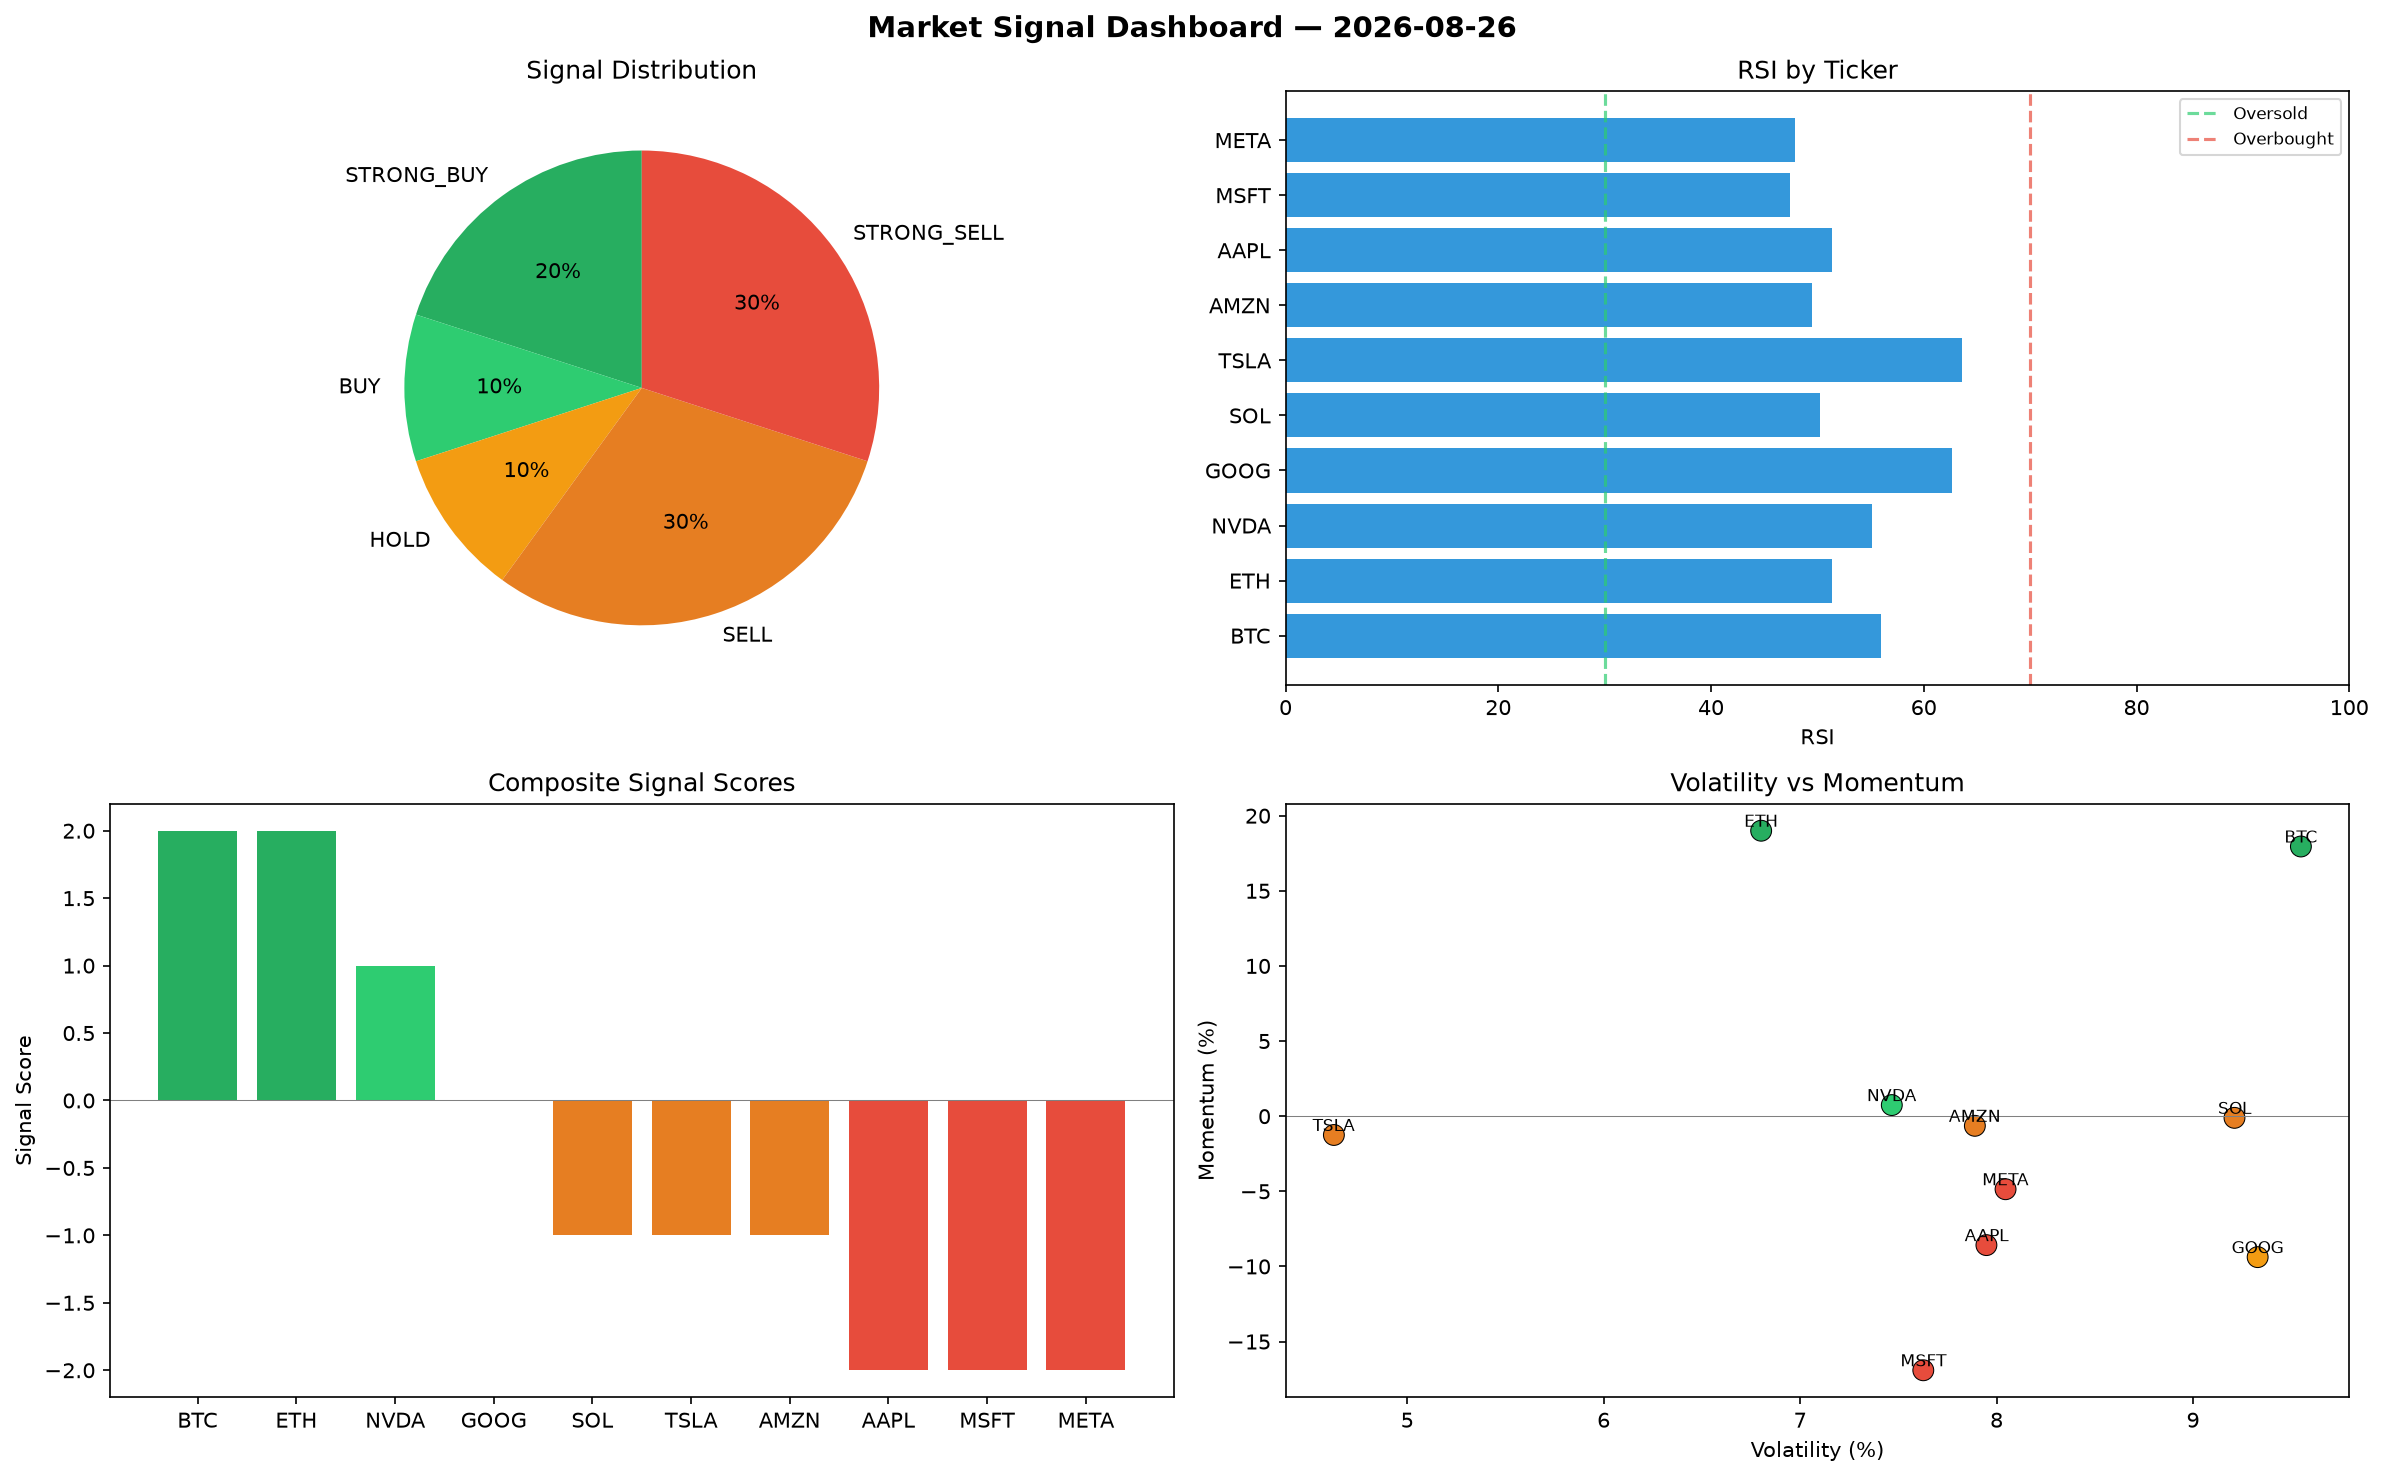
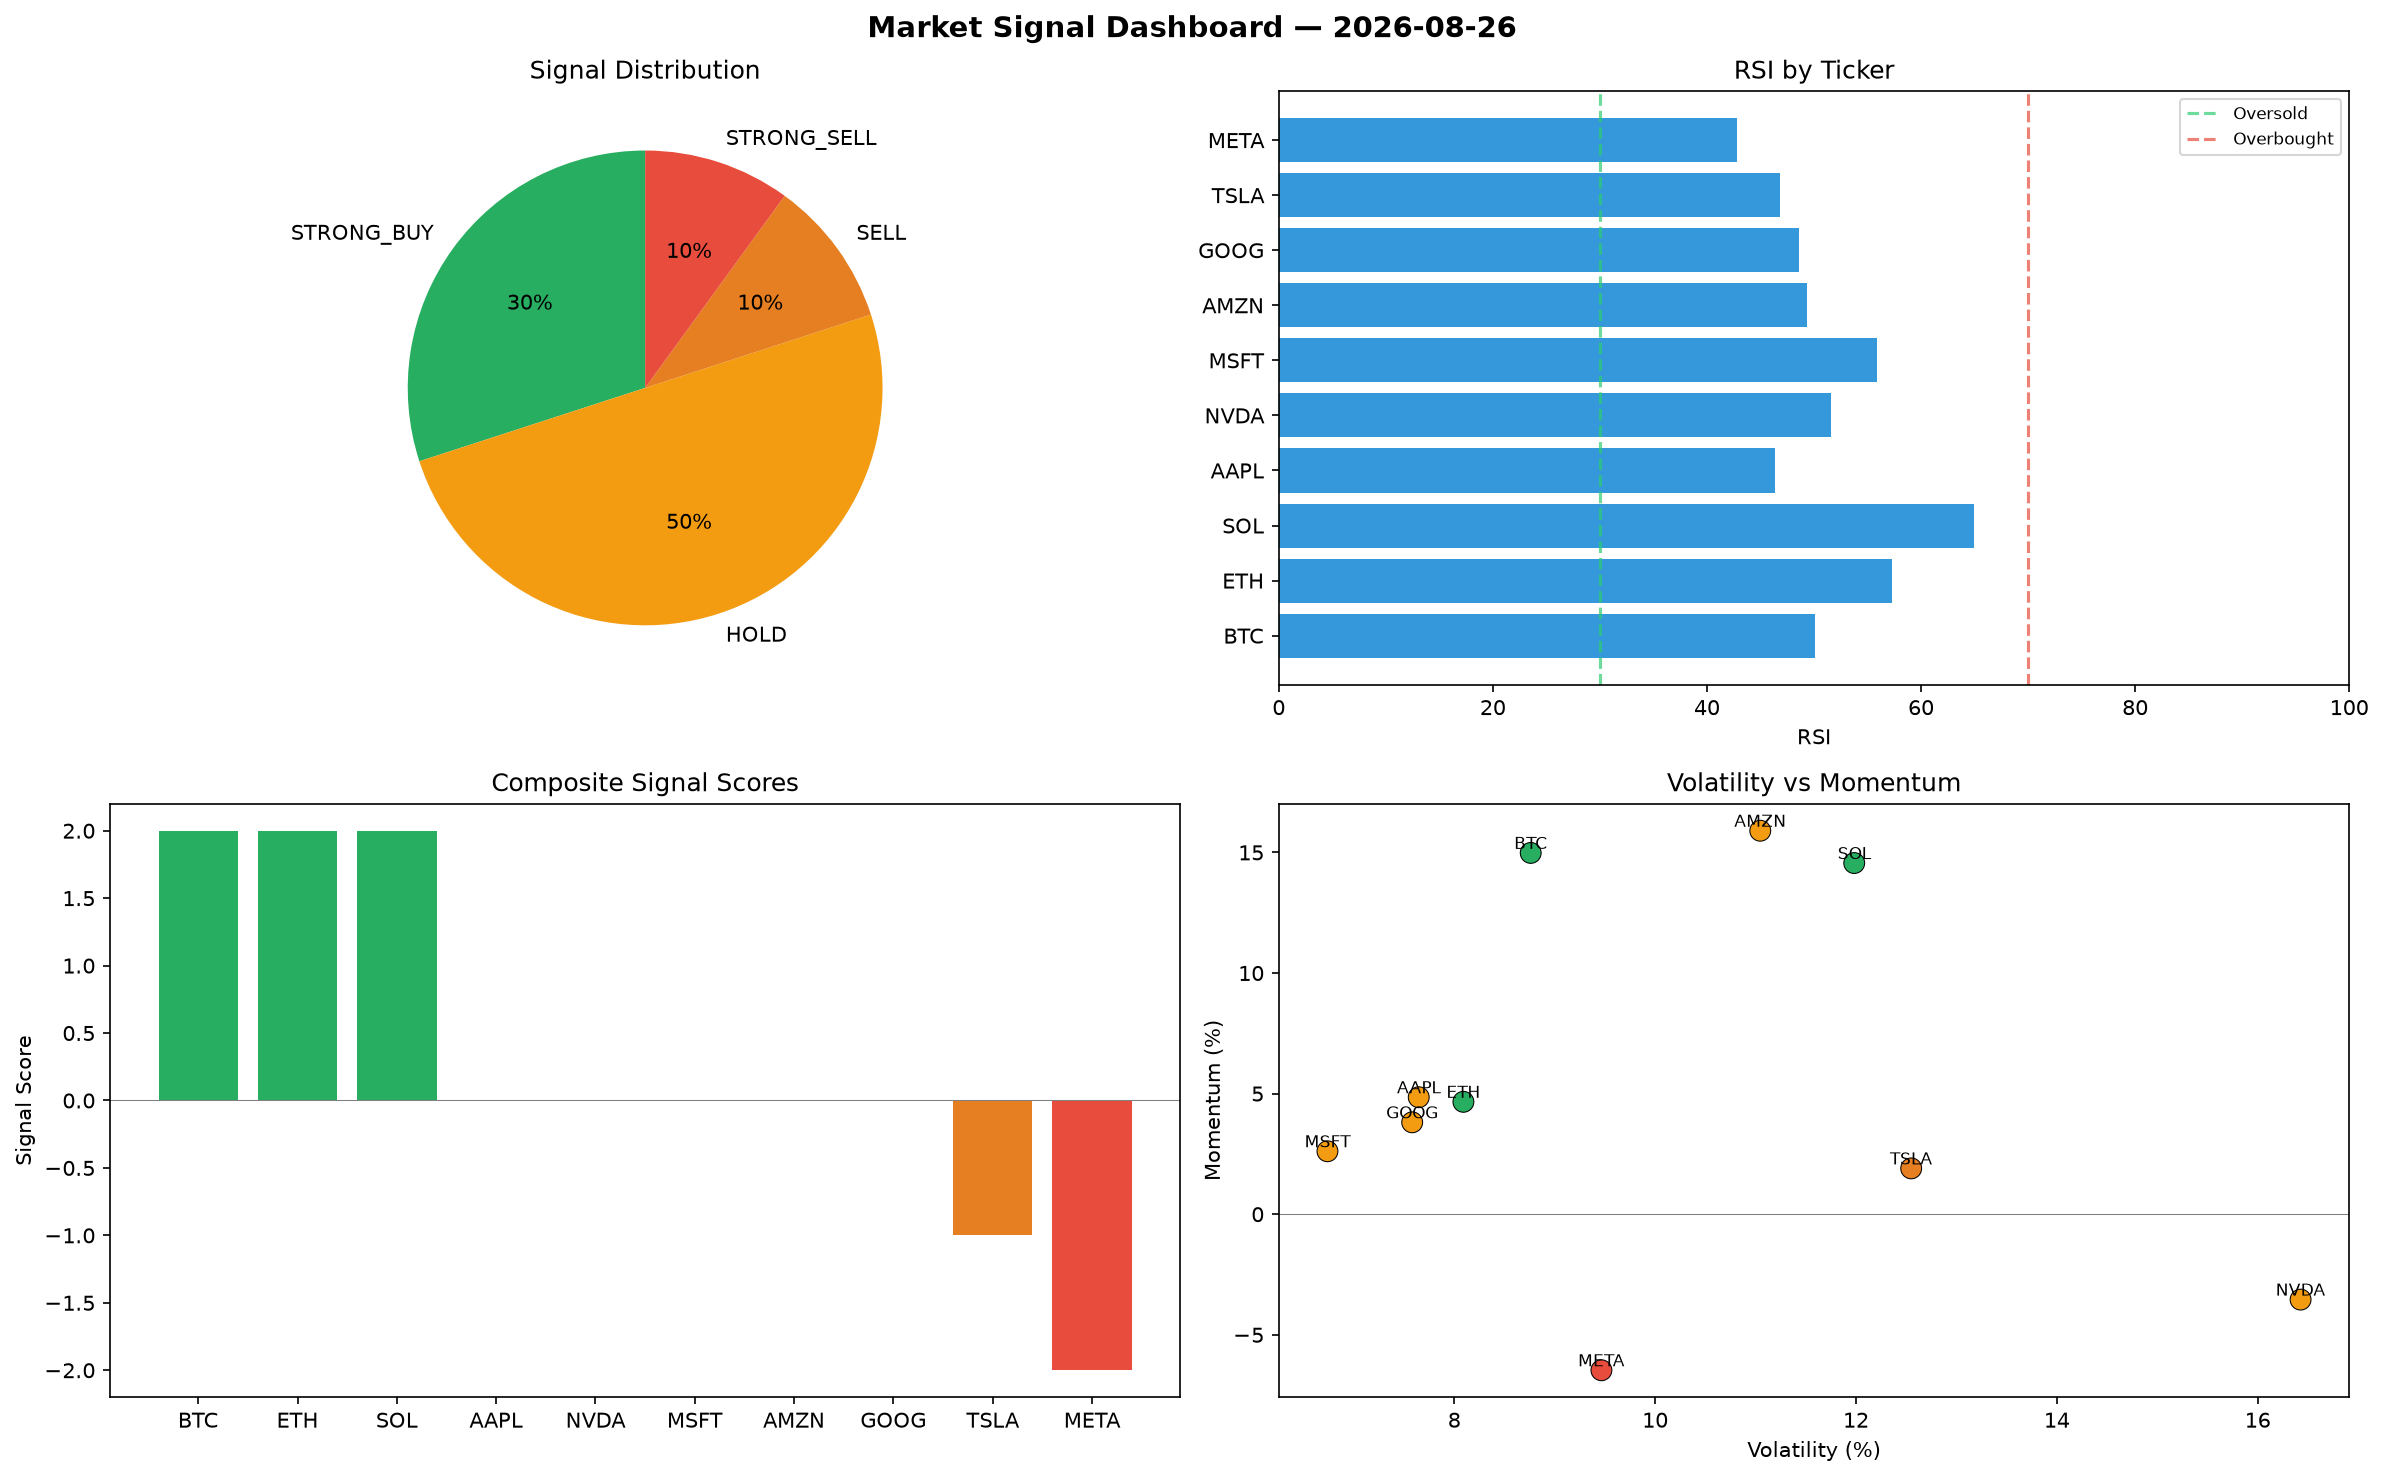
automated-bots: market signals 2026-08-26T23:49

diff --git a/logs/2026-08-26.md b/logs/2026-08-26.md
@@ -1,6 +1,6 @@
 # Market Signal Report — 2026-08-26
 
-**Run ID:** `bf671c7bd0` | **Buy:** 3 | **Sell:** 6 | **Hold:** 1
+**Run ID:** `30aa99df08` | **Buy:** 3 | **Sell:** 2 | **Hold:** 5
 
 ![Dashboard](2026-08-26_dashboard.png)
 
@@ -8,28 +8,28 @@
 
 | Ticker | Price | Signal | Score | RSI | Momentum | Confidence |
 |--------|-------|--------|-------|-----|----------|------------|
-| BTC | $154.68 | **STRONG_BUY** | 2 | 55.99 | 0.1795 | 0.5 |
-| ETH | $5234.24 | **STRONG_BUY** | 2 | 51.35 | 0.19 | 0.5 |
-| NVDA | $2130.14 | **BUY** | 1 | 55.12 | 0.0074 | 0.25 |
-| GOOG | $3317.77 | **HOLD** | 0 | 62.62 | -0.0938 | 0.0 |
-| SOL | $5085.37 | **SELL** | -1 | 50.29 | -0.0011 | 0.25 |
-| TSLA | $2005.16 | **SELL** | -1 | 63.62 | -0.0125 | 0.25 |
-| AMZN | $3694.6 | **SELL** | -1 | 49.46 | -0.0064 | 0.25 |
-| AAPL | $330.07 | **STRONG_SELL** | -2 | 51.41 | -0.0858 | 0.5 |
-| MSFT | $3772.56 | **STRONG_SELL** | -2 | 47.39 | -0.1691 | 0.5 |
-| META | $3263.27 | **STRONG_SELL** | -2 | 47.86 | -0.0486 | 0.5 |
+| BTC | $1653.1 | **STRONG_BUY** | 2 | 50.12 | 0.1498 | 0.5 |
+| ETH | $4735.86 | **STRONG_BUY** | 2 | 57.26 | 0.0466 | 0.5 |
+| SOL | $1949.01 | **STRONG_BUY** | 2 | 64.91 | 0.1456 | 0.5 |
+| AAPL | $578.94 | **HOLD** | 0 | 46.35 | 0.0485 | 0.0 |
+| NVDA | $3171.64 | **HOLD** | 0 | 51.63 | -0.0354 | 0.0 |
+| MSFT | $3253.6 | **HOLD** | 0 | 55.88 | 0.0261 | 0.0 |
+| AMZN | $3710.75 | **HOLD** | 0 | 49.39 | 0.159 | 0.0 |
+| GOOG | $1595.64 | **HOLD** | 0 | 48.6 | 0.0381 | 0.0 |
+| TSLA | $4264.6 | **SELL** | -1 | 46.83 | 0.019 | 0.25 |
+| META | $4481.88 | **STRONG_SELL** | -2 | 42.8 | -0.0647 | 0.5 |
 
 ## Delta vs Yesterday
 
 | Ticker | Today | Yesterday | Price Change | Signal Changed |
 |--------|-------|-----------|-------------|----------------|
-| BTC | STRONG_BUY | SELL | 📈 30.22% | ⚠ YES |
-| ETH | STRONG_BUY | HOLD | 📈 224.88% | ⚠ YES |
-| NVDA | BUY | STRONG_SELL | 📈 61.73% | ⚠ YES |
-| GOOG | HOLD | STRONG_SELL | 📈 334.1% | ⚠ YES |
-| SOL | SELL | STRONG_SELL | 📈 27.23% | ⚠ YES |
-| TSLA | SELL | SELL | 📉 -47.56% | — |
-| AMZN | SELL | HOLD | 📈 3.36% | ⚠ YES |
-| AAPL | STRONG_SELL | STRONG_BUY | 📉 -42.9% | ⚠ YES |
-| MSFT | STRONG_SELL | HOLD | 📉 -10.6% | ⚠ YES |
-| META | STRONG_SELL | HOLD | 📈 210.6% | ⚠ YES |
+| BTC | STRONG_BUY | SELL | 📈 1291.73% | ⚠ YES |
+| ETH | STRONG_BUY | HOLD | 📈 193.95% | ⚠ YES |
+| SOL | STRONG_BUY | STRONG_SELL | 📉 -51.24% | ⚠ YES |
+| AAPL | HOLD | STRONG_BUY | 📈 0.15% | ⚠ YES |
+| NVDA | HOLD | STRONG_SELL | 📈 140.8% | ⚠ YES |
+| MSFT | HOLD | HOLD | 📉 -22.9% | — |
+| AMZN | HOLD | HOLD | 📈 3.81% | — |
+| GOOG | HOLD | STRONG_SELL | 📈 108.78% | ⚠ YES |
+| TSLA | SELL | SELL | 📈 11.53% | — |
+| META | STRONG_SELL | HOLD | 📈 326.59% | ⚠ YES |
